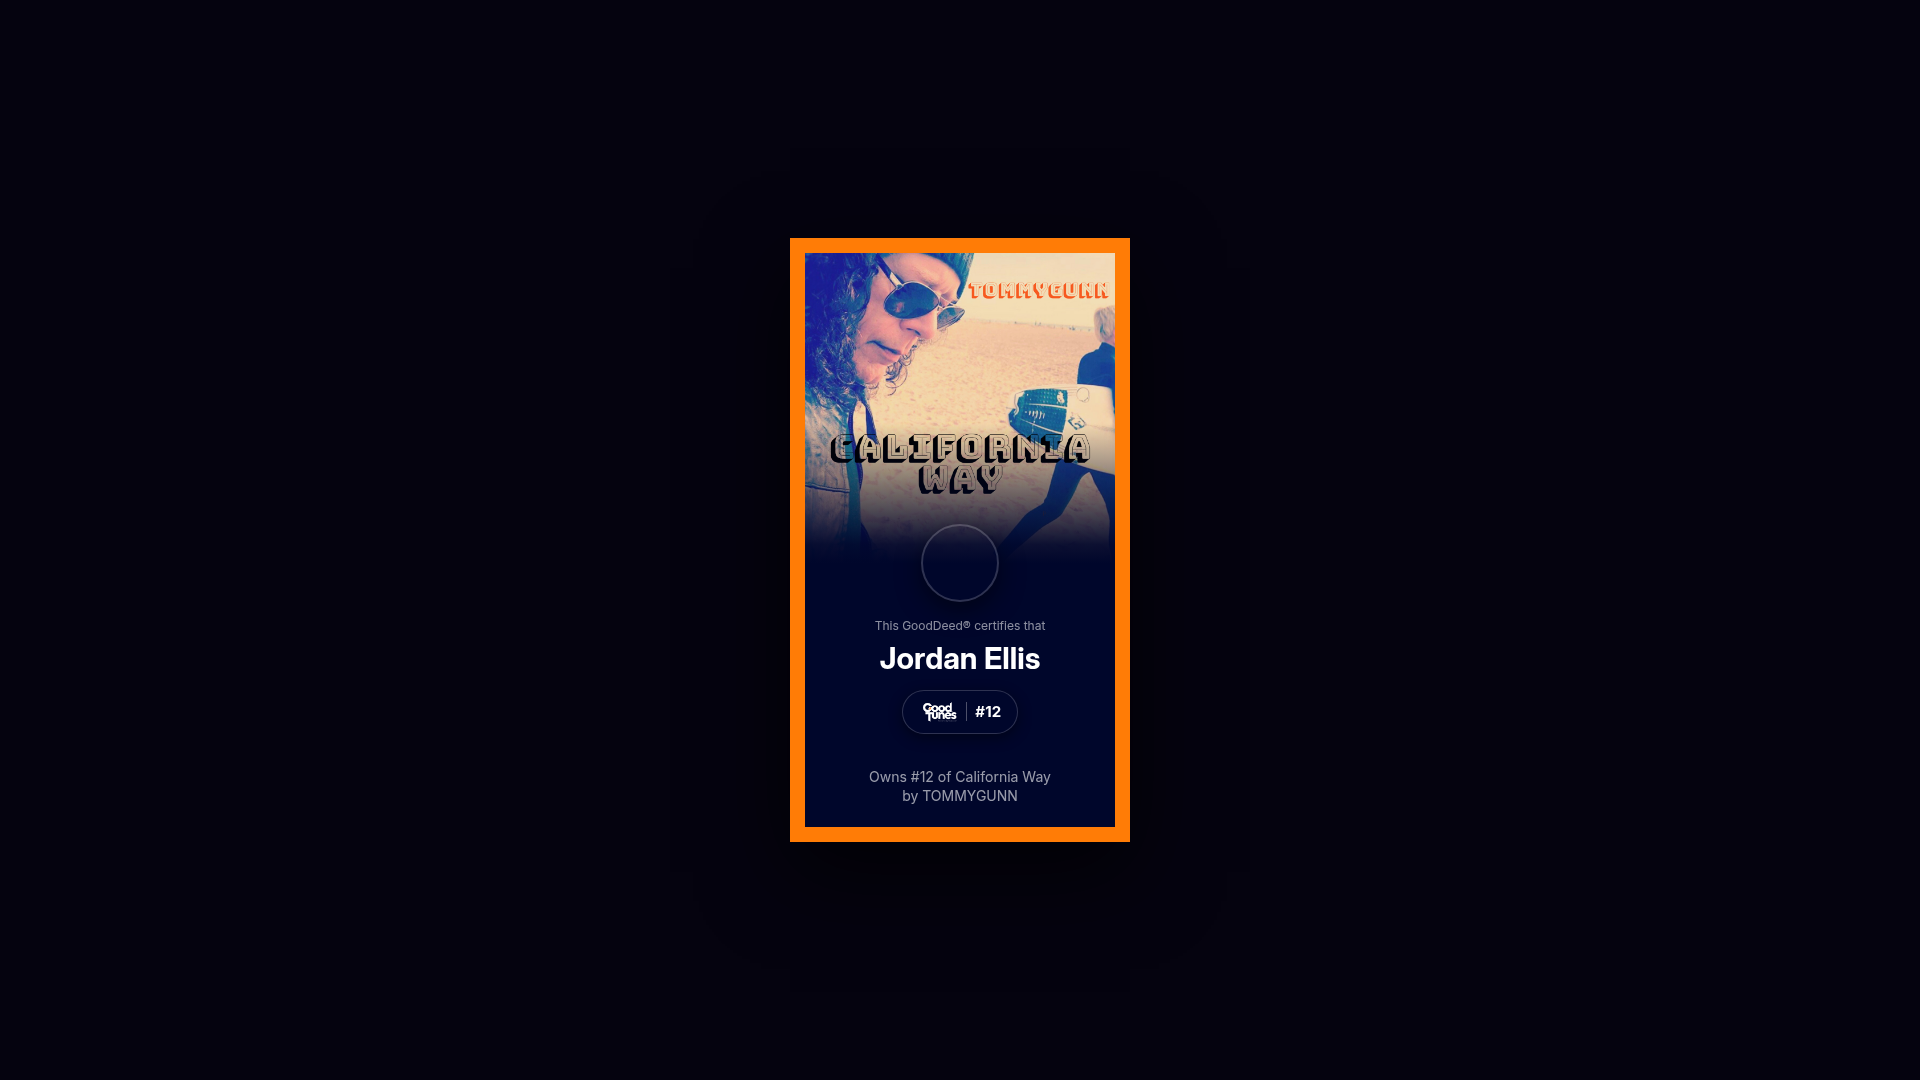
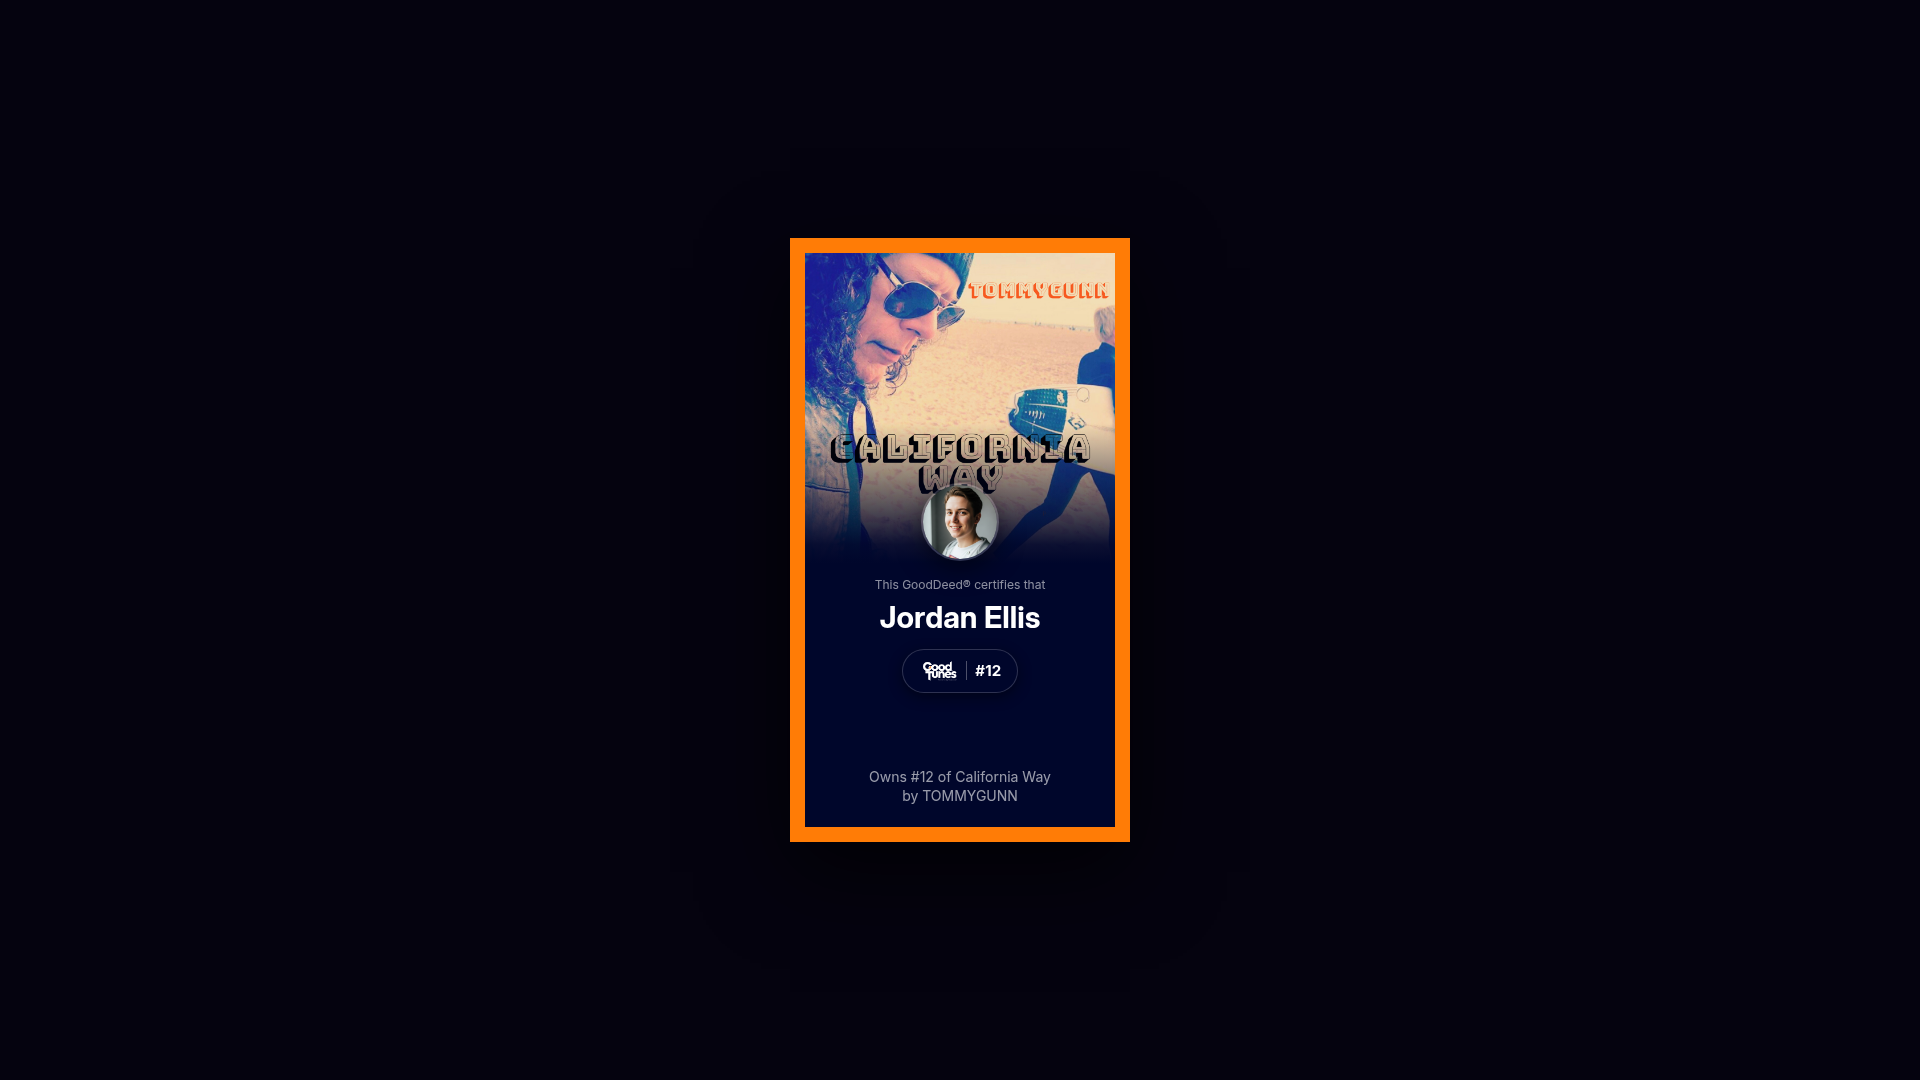
Adjust image position to improve visual appeal
Update the avatar's top margin in the `StoriesBordered.tsx` file to reposition it higher on the screen, causing associated elements to shift upwards as well.

Replit-Commit-Author: Agent
Replit-Commit-Session-Id: 05c2a2e8-5b06-4806-a9d5-d257ed0dfe21
Replit-Commit-Checkpoint-Type: full_checkpoint
Replit-Commit-Event-Id: 51ed7cad-eab7-46e2-96ed-5bbe3e7e31f6
Replit-Commit-Screenshot-Url: https://storage.googleapis.com/screenshot-production-us-central1/5293185b-8e25-4d4f-b8b2-dc5494b9adc6/05c2a2e8-5b06-4806-a9d5-d257ed0dfe21/iswkjfa
Replit-Helium-Checkpoint-Created: true

Changed region(s): [[0.4375, 0.4583, 0.5625, 0.6722]]

diff --git a/artifacts/mockup-sandbox/src/components/mockups/gooddeed-cert/StoriesBordered.tsx b/artifacts/mockup-sandbox/src/components/mockups/gooddeed-cert/StoriesBordered.tsx
@@ -64,7 +64,7 @@ export function BorderedStoryCard({ overlay }: { overlay?: ReactNode }) {
           style={{
             width: 78,
             height: 78,
-            marginTop: -39, // half the avatar overlaps up onto the art
+            marginTop: -80, // lifted fully up into the faded lower art; name+pill follow
             border: "2px solid rgba(255,255,255,0.18)", // subtle hairline (locked Story treatment)
             boxShadow: "0 8px 24px rgba(0,0,0,0.5)",
           }}
